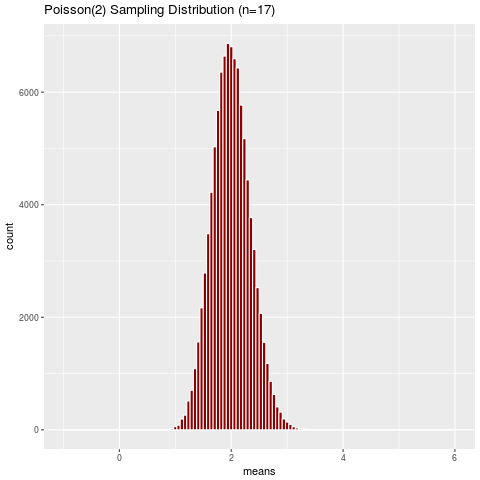
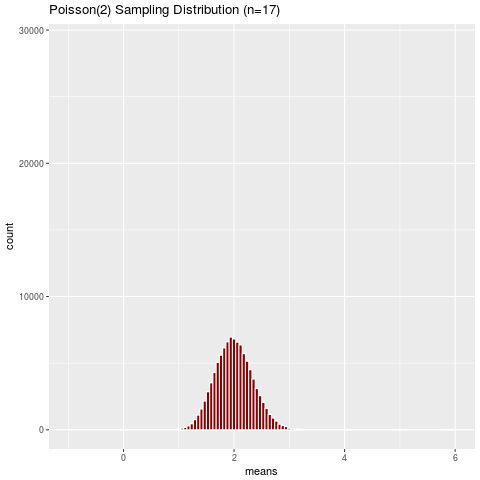
updated poisson

diff --git a/viz/poisson/index.html b/viz/poisson/index.html
@@ -39,7 +39,7 @@ for (n in 1:25) {
     }
     print(ggplot() + geom_histogram(aes(x = means), binwidth = 1/n, 
         color = "white", fill = "darkred") + ggtitle(paste0("Poisson(2) Sampling Distribution (n=", 
-        as.character(n), ")")) + xlim(-1, 6))
+        as.character(n), ")")) + xlim(-1, 6) + ylim(0, 29000))
 }
 ## R version 3.2.3 (2015-12-10)
 ## Platform: x86_64-pc-linux-gnu (64-bit)
